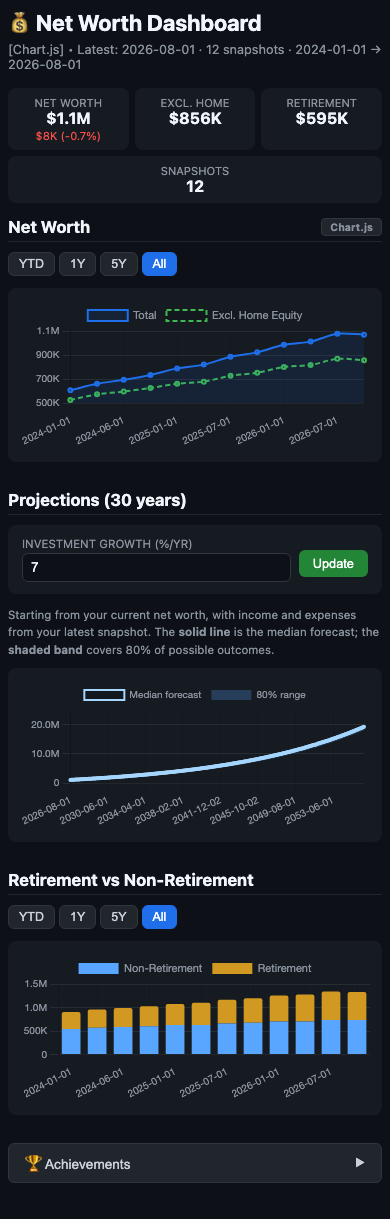
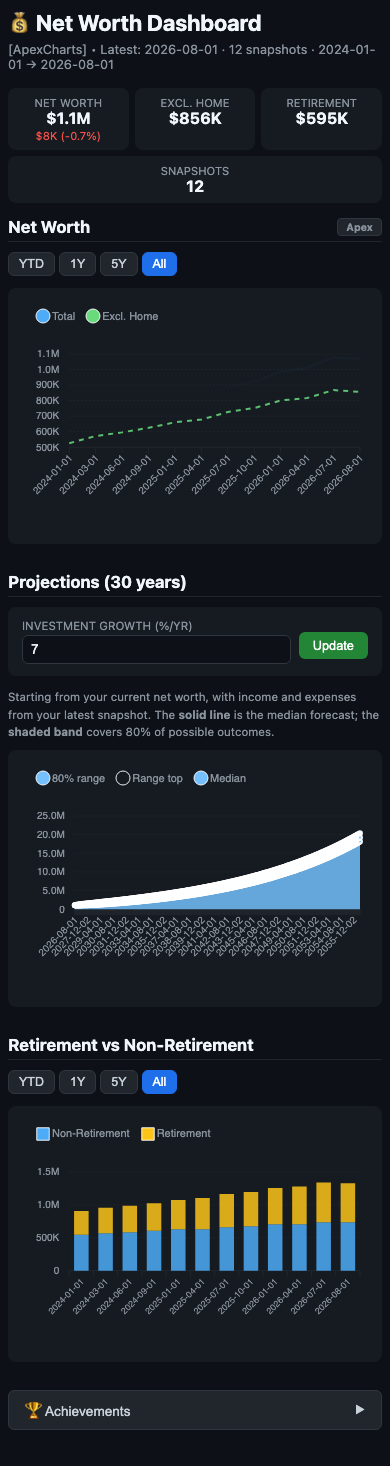
fix: ApexCharts polish — Net Worth: no dots (markers 0), thicker blue line (2.5px). Projections: area band hidden from legend, median line only. Retirement: high-contrast blue+gold bars, rotated labels, no animations.

diff --git a/docs/index.html b/docs/index.html
@@ -164,7 +164,7 @@
 </div>
 
 <script>
[2 lines of base64/hex data omitted]
 
 // --- Password gate ---
 function sha256(str) {
@@ -280,11 +280,13 @@ function drawNW_apex() {
   const opts = apexOpts({
     type: 'line',
     series: [
-      { name: 'Total', data: f.series[0].map((v,i) => ({x: f.dates[i], y: v})), color: CC.total },
-      { name: 'Excl. Home Equity', data: f.series[1].map((v,i) => ({x: f.dates[i], y: v})), color: CC.exHousing },
+      { name: 'Total', data: f.series[0].map((v,i) => ({x: f.dates[i], y: v})), color: '#4dabf7' },
+      { name: 'Excl. Home', data: f.series[1].map((v,i) => ({x: f.dates[i], y: v})), color: '#69db7c' },
     ],
-    stroke: { curve: 'straight', width: [2, 2], dashArray: [0, 5] },
-    fill: { type: ['gradient'], gradient: { shade: 'dark', type: 'vertical', opacityFrom: 0.3, opacityTo: 0 } },
+    stroke: { curve: 'straight', width: [2.5, 2], dashArray: [0, 5] },
+    markers: { size: [0, 0], strokeWidth: 0 },
+    fill: { type: ['gradient'], gradient: { shade: 'dark', type: 'vertical', opacityFrom: 0.25, opacityTo: 0.02 } },
+    legend: { position: 'top', horizontalAlign: 'left', fontSize: '11px', markers: { width: 20, height: 3, radius: 1 } },
   });
   const chart = new ApexCharts(document.getElementById('chartNetWorth'), opts);
   chart.render();
@@ -300,25 +302,28 @@ function drawProjections_apex() {
       {
         name: '80% range',
         data: p.lower.map((v,i) => ({x: p.projDates[i], y: v})),
-        color: '#a5d6ff',
         type: 'area',
-        fill: { type: 'gradient', gradient: { shade: 'dark', type: 'vertical', opacityFrom: 0.25, opacityTo: 0.05 } },
+        color: '#74c0fc',
+        fill: { type: 'gradient', gradient: { shade: 'dark', type: 'vertical', opacityFrom: 0.2, opacityTo: 0.02 } },
         stroke: { width: 0 },
+        legend: { show: false },
       },
       {
-        name: 'Optimistic',
+        name: 'Range top',
         data: p.upper.map((v,i) => ({x: p.projDates[i], y: v})),
         color: 'transparent',
         stroke: { width: 0 },
         legend: { show: false },
       },
       {
-        name: 'Median forecast',
+        name: 'Median',
         data: p.median.map((v,i) => ({x: p.projDates[i], y: v})),
-        color: '#a5d6ff',
-        stroke: { width: 2 },
+        color: '#74c0fc',
+        stroke: { width: 2.5, curve: 'straight' },
+        markers: { size: 0 },
       },
     ],
+    legend: { position: 'top', horizontalAlign: 'left', fontSize: '11px', markers: { width: 20, height: 3, radius: 1 } },
   });
   const chart = new ApexCharts(document.getElementById('chartProjections'), opts);
   chart.render();
@@ -327,26 +332,25 @@ function drawProjections_apex() {
 
 function drawStacked_apex() {
   const f = filterDates(DATA.series.dates, [DATA.series.retirement, DATA.series.non_retirement], TF_MAIN[tf.stacked]);
-  const opts = apexOpts({
+  const opts = {
     chart: {
-      type: 'bar',
-      stacked: true,
-      background: CC.bg,
-      foreColor: CC.tick,
-      toolbar: { show: false },
-      zoom: { enabled: false },
+      type: 'bar', stacked: true,
+      background: CC.bg, foreColor: CC.tick,
+      toolbar: { show: false }, zoom: { enabled: false },
+      animations: { enabled: false },
     },
     series: [
-      { name: 'Non-Retirement', data: f.series[1].map((v,i) => ({x: f.dates[i], y: v})), color: CC.nonRetirement },
-      { name: 'Retirement', data: f.series[0].map((v,i) => ({x: f.dates[i], y: v})), color: CC.retirement },
+      { name: 'Non-Retirement', data: f.series[1].map((v,i) => ({x: f.dates[i], y: v})), color: '#4dabf7' },
+      { name: 'Retirement', data: f.series[0].map((v,i) => ({x: f.dates[i], y: v})), color: '#fcc419' },
     ],
-    plotOptions: { bar: { borderRadius: 2, columnWidth: '70%' } },
-    xaxis: { labels: { style: { colors: CC.tick, fontSize: '10px' } }, axisBorder: { color: CC.grid }, axisTicks: { color: CC.grid } },
+    plotOptions: { bar: { borderRadius: 0, columnWidth: '60%', dataLabels: { position: 'center' } } },
+    dataLabels: { enabled: false },
+    xaxis: { labels: { style: { colors: CC.tick, fontSize: '9px' }, rotate: -45, maxItems: 8 }, axisBorder: { color: CC.grid }, axisTicks: { color: CC.grid } },
     yaxis: { labels: { style: { colors: CC.tick, fontSize: '10px' }, formatter: v => fmtShort(v) } },
     grid: { borderColor: CC.grid, strokeDashArray: 2 },
     tooltip: { theme: 'dark', x: { format: 'yyyy-MM-dd' }, y: { formatter: v => fmtFull(v) } },
-    legend: { labels: { colors: CC.tick }, fontSize: '11px' },
-  });
+    legend: { position: 'top', horizontalAlign: 'left', fontSize: '11px', labels: { colors: CC.tick }, markers: { width: 12, height: 12, radius: 2 } },
+  };
   const chart = new ApexCharts(document.getElementById('chartStacked'), opts);
   chart.render();
   charts.stacked = chart;

diff --git a/templates/index.html b/templates/index.html
@@ -280,11 +280,13 @@ function drawNW_apex() {
   const opts = apexOpts({
     type: 'line',
     series: [
-      { name: 'Total', data: f.series[0].map((v,i) => ({x: f.dates[i], y: v})), color: CC.total },
-      { name: 'Excl. Home Equity', data: f.series[1].map((v,i) => ({x: f.dates[i], y: v})), color: CC.exHousing },
+      { name: 'Total', data: f.series[0].map((v,i) => ({x: f.dates[i], y: v})), color: '#4dabf7' },
+      { name: 'Excl. Home', data: f.series[1].map((v,i) => ({x: f.dates[i], y: v})), color: '#69db7c' },
     ],
-    stroke: { curve: 'straight', width: [2, 2], dashArray: [0, 5] },
-    fill: { type: ['gradient'], gradient: { shade: 'dark', type: 'vertical', opacityFrom: 0.3, opacityTo: 0 } },
+    stroke: { curve: 'straight', width: [2.5, 2], dashArray: [0, 5] },
+    markers: { size: [0, 0], strokeWidth: 0 },
+    fill: { type: ['gradient'], gradient: { shade: 'dark', type: 'vertical', opacityFrom: 0.25, opacityTo: 0.02 } },
+    legend: { position: 'top', horizontalAlign: 'left', fontSize: '11px', markers: { width: 20, height: 3, radius: 1 } },
   });
   const chart = new ApexCharts(document.getElementById('chartNetWorth'), opts);
   chart.render();
@@ -300,25 +302,28 @@ function drawProjections_apex() {
       {
         name: '80% range',
         data: p.lower.map((v,i) => ({x: p.projDates[i], y: v})),
-        color: '#a5d6ff',
         type: 'area',
-        fill: { type: 'gradient', gradient: { shade: 'dark', type: 'vertical', opacityFrom: 0.25, opacityTo: 0.05 } },
+        color: '#74c0fc',
+        fill: { type: 'gradient', gradient: { shade: 'dark', type: 'vertical', opacityFrom: 0.2, opacityTo: 0.02 } },
         stroke: { width: 0 },
+        legend: { show: false },
       },
       {
-        name: 'Optimistic',
+        name: 'Range top',
         data: p.upper.map((v,i) => ({x: p.projDates[i], y: v})),
         color: 'transparent',
         stroke: { width: 0 },
         legend: { show: false },
       },
       {
-        name: 'Median forecast',
+        name: 'Median',
         data: p.median.map((v,i) => ({x: p.projDates[i], y: v})),
-        color: '#a5d6ff',
-        stroke: { width: 2 },
+        color: '#74c0fc',
+        stroke: { width: 2.5, curve: 'straight' },
+        markers: { size: 0 },
       },
     ],
+    legend: { position: 'top', horizontalAlign: 'left', fontSize: '11px', markers: { width: 20, height: 3, radius: 1 } },
   });
   const chart = new ApexCharts(document.getElementById('chartProjections'), opts);
   chart.render();
@@ -327,26 +332,25 @@ function drawProjections_apex() {
 
 function drawStacked_apex() {
   const f = filterDates(DATA.series.dates, [DATA.series.retirement, DATA.series.non_retirement], TF_MAIN[tf.stacked]);
-  const opts = apexOpts({
+  const opts = {
     chart: {
-      type: 'bar',
-      stacked: true,
-      background: CC.bg,
-      foreColor: CC.tick,
-      toolbar: { show: false },
-      zoom: { enabled: false },
+      type: 'bar', stacked: true,
+      background: CC.bg, foreColor: CC.tick,
+      toolbar: { show: false }, zoom: { enabled: false },
+      animations: { enabled: false },
     },
     series: [
-      { name: 'Non-Retirement', data: f.series[1].map((v,i) => ({x: f.dates[i], y: v})), color: CC.nonRetirement },
-      { name: 'Retirement', data: f.series[0].map((v,i) => ({x: f.dates[i], y: v})), color: CC.retirement },
+      { name: 'Non-Retirement', data: f.series[1].map((v,i) => ({x: f.dates[i], y: v})), color: '#4dabf7' },
+      { name: 'Retirement', data: f.series[0].map((v,i) => ({x: f.dates[i], y: v})), color: '#fcc419' },
     ],
-    plotOptions: { bar: { borderRadius: 2, columnWidth: '70%' } },
-    xaxis: { labels: { style: { colors: CC.tick, fontSize: '10px' } }, axisBorder: { color: CC.grid }, axisTicks: { color: CC.grid } },
+    plotOptions: { bar: { borderRadius: 0, columnWidth: '60%', dataLabels: { position: 'center' } } },
+    dataLabels: { enabled: false },
+    xaxis: { labels: { style: { colors: CC.tick, fontSize: '9px' }, rotate: -45, maxItems: 8 }, axisBorder: { color: CC.grid }, axisTicks: { color: CC.grid } },
     yaxis: { labels: { style: { colors: CC.tick, fontSize: '10px' }, formatter: v => fmtShort(v) } },
     grid: { borderColor: CC.grid, strokeDashArray: 2 },
     tooltip: { theme: 'dark', x: { format: 'yyyy-MM-dd' }, y: { formatter: v => fmtFull(v) } },
-    legend: { labels: { colors: CC.tick }, fontSize: '11px' },
-  });
+    legend: { position: 'top', horizontalAlign: 'left', fontSize: '11px', labels: { colors: CC.tick }, markers: { width: 12, height: 12, radius: 2 } },
+  };
   const chart = new ApexCharts(document.getElementById('chartStacked'), opts);
   chart.render();
   charts.stacked = chart;
